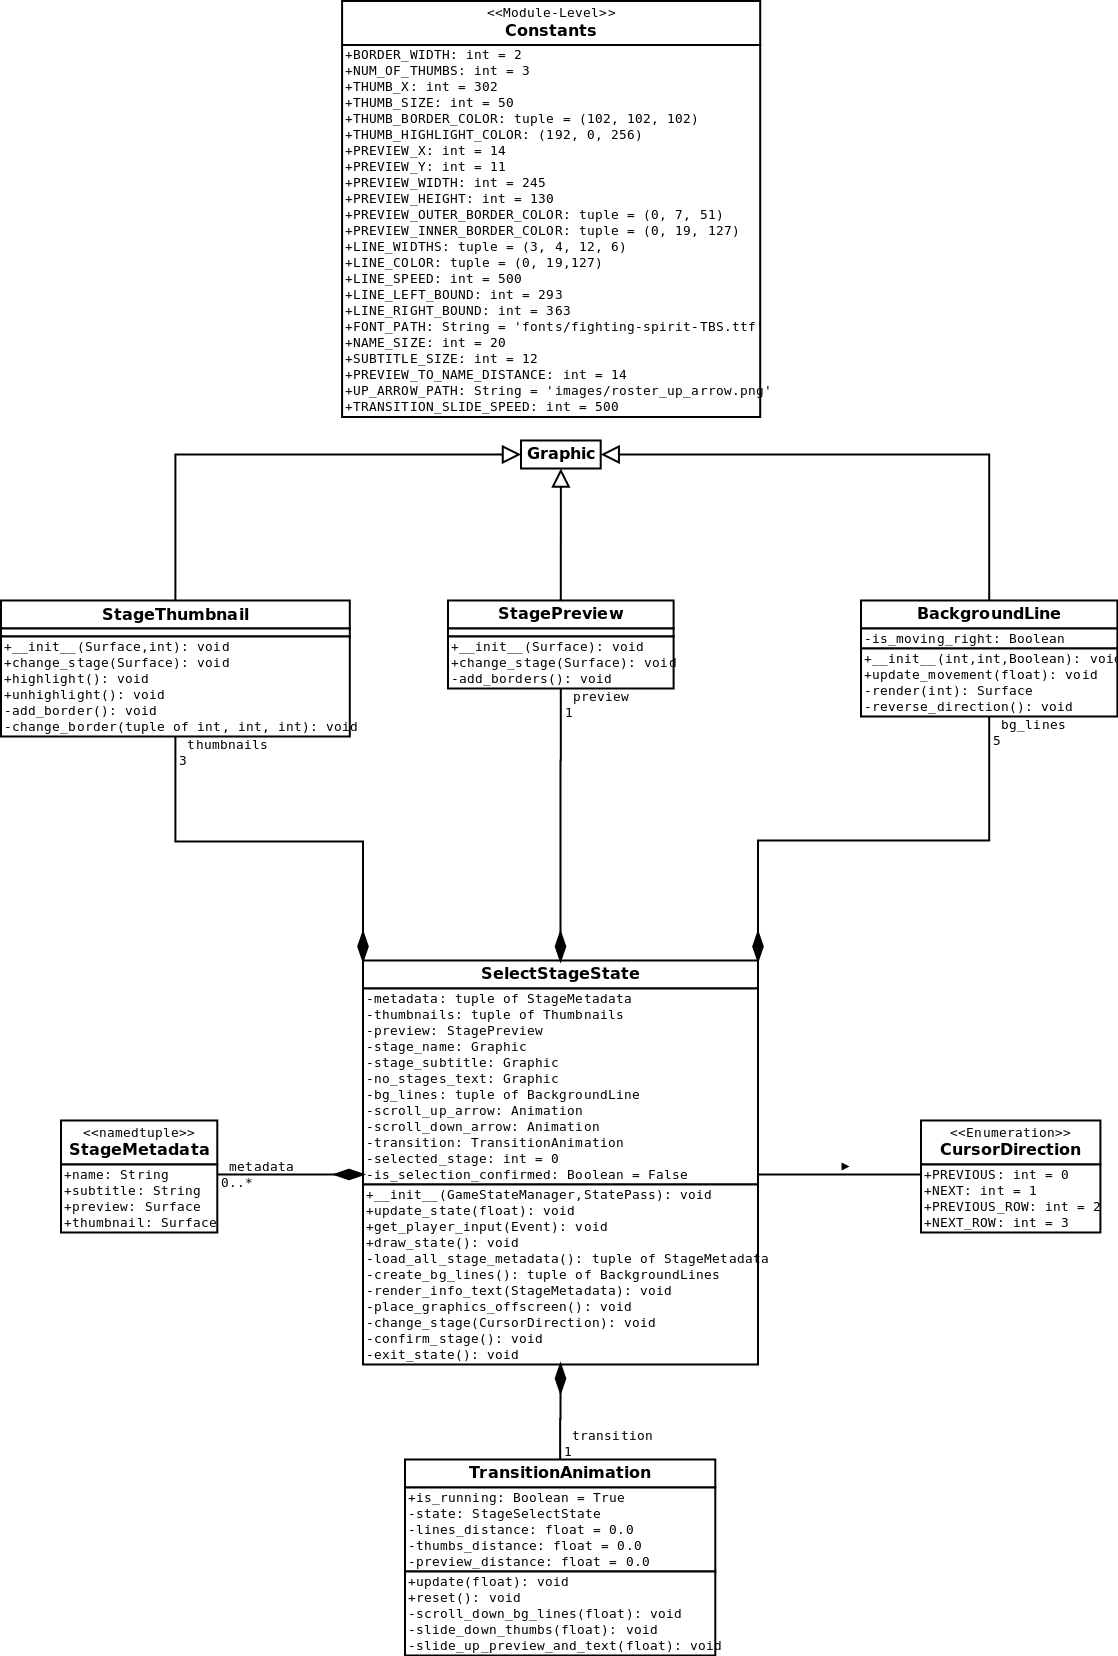
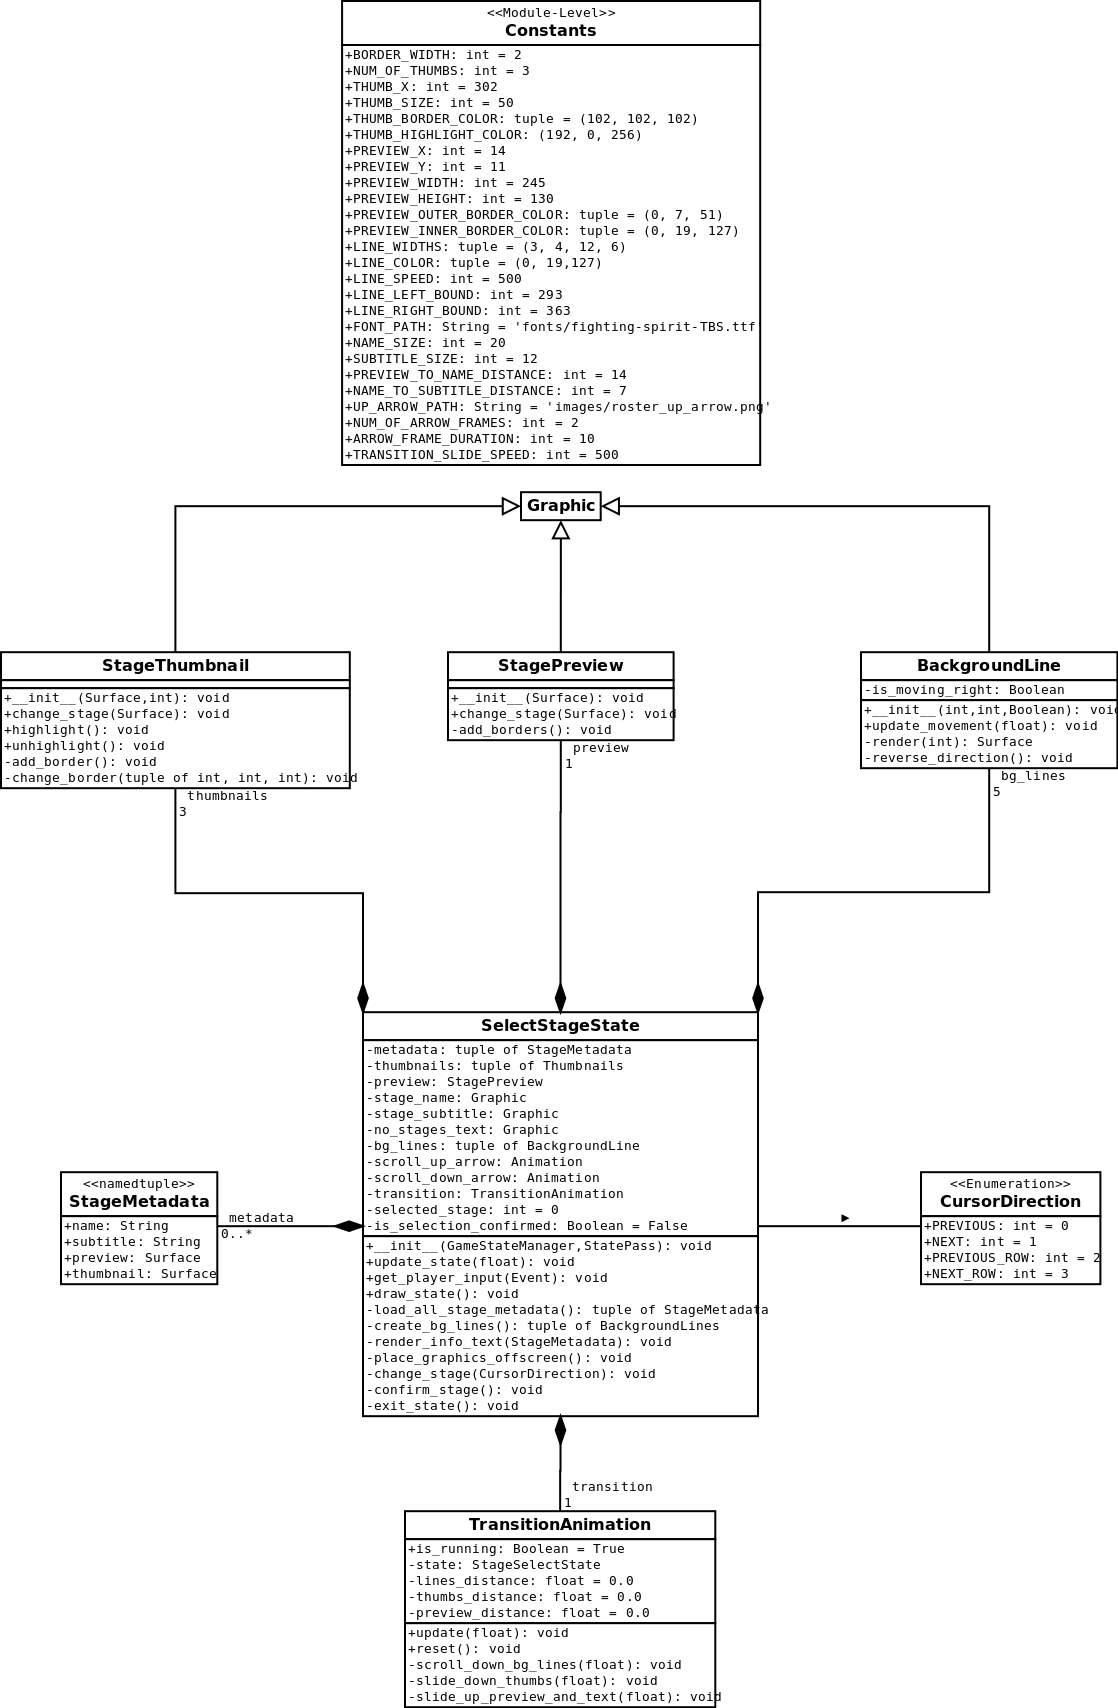
Add even more constants to stage_select.py

diff --git a/lib/game_states/stage_select_state.py b/lib/game_states/stage_select_state.py
@@ -39,8 +39,16 @@ Module Constants:
         subtitle text.
     PREVIEW_TO_NAME_DISTANCE (int): The distance, in pixels, between
         the preview image and the Stage name text.
+    SUBTITLE_TO_NAME_DISTANCE (int): The distance, in pixels, between
+        the Stage name text and the Stage subtitle text.
     UP_ARROW_PATH (String): The file path to the scroll up arrow sprite
         sheet image.
+    NUM_OF_ARROW_FRAMES (int): The number of frames in the scroll arrows'
+        sprite sheet (as specified by UP_ARROW_PATH).
+    ARROW_FRAME_DURATION (int): The duration, in update frames, of each
+        animation frame for the scroll arrows.
+    ARROW_DISTANCE_FROM_THUMBS (int): The vertical distance, in pixels,
+        between the scroll arrows and the Thumbnails.
     TRANSITION_SLIDE_SPEED (int): The speed, in pixels per second, that
         Graphics move in and out of the screen at when transitioning in
         or out of this State.
@@ -75,7 +83,10 @@ FONT_PATH = 'fonts/fighting-spirit-TBS.ttf'
 NAME_SIZE = 20
 SUBTITLE_SIZE = 12
 PREVIEW_TO_NAME_DISTANCE = 14
+NAME_TO_SUBTITLE_DISTANCE = 7
 UP_ARROW_PATH = 'images/roster_up_arrow.png'
+NUM_OF_ARROW_FRAMES = 2
+ARROW_FRAME_DURATION = 10
 TRANSITION_SLIDE_SPEED = 500
 
 
